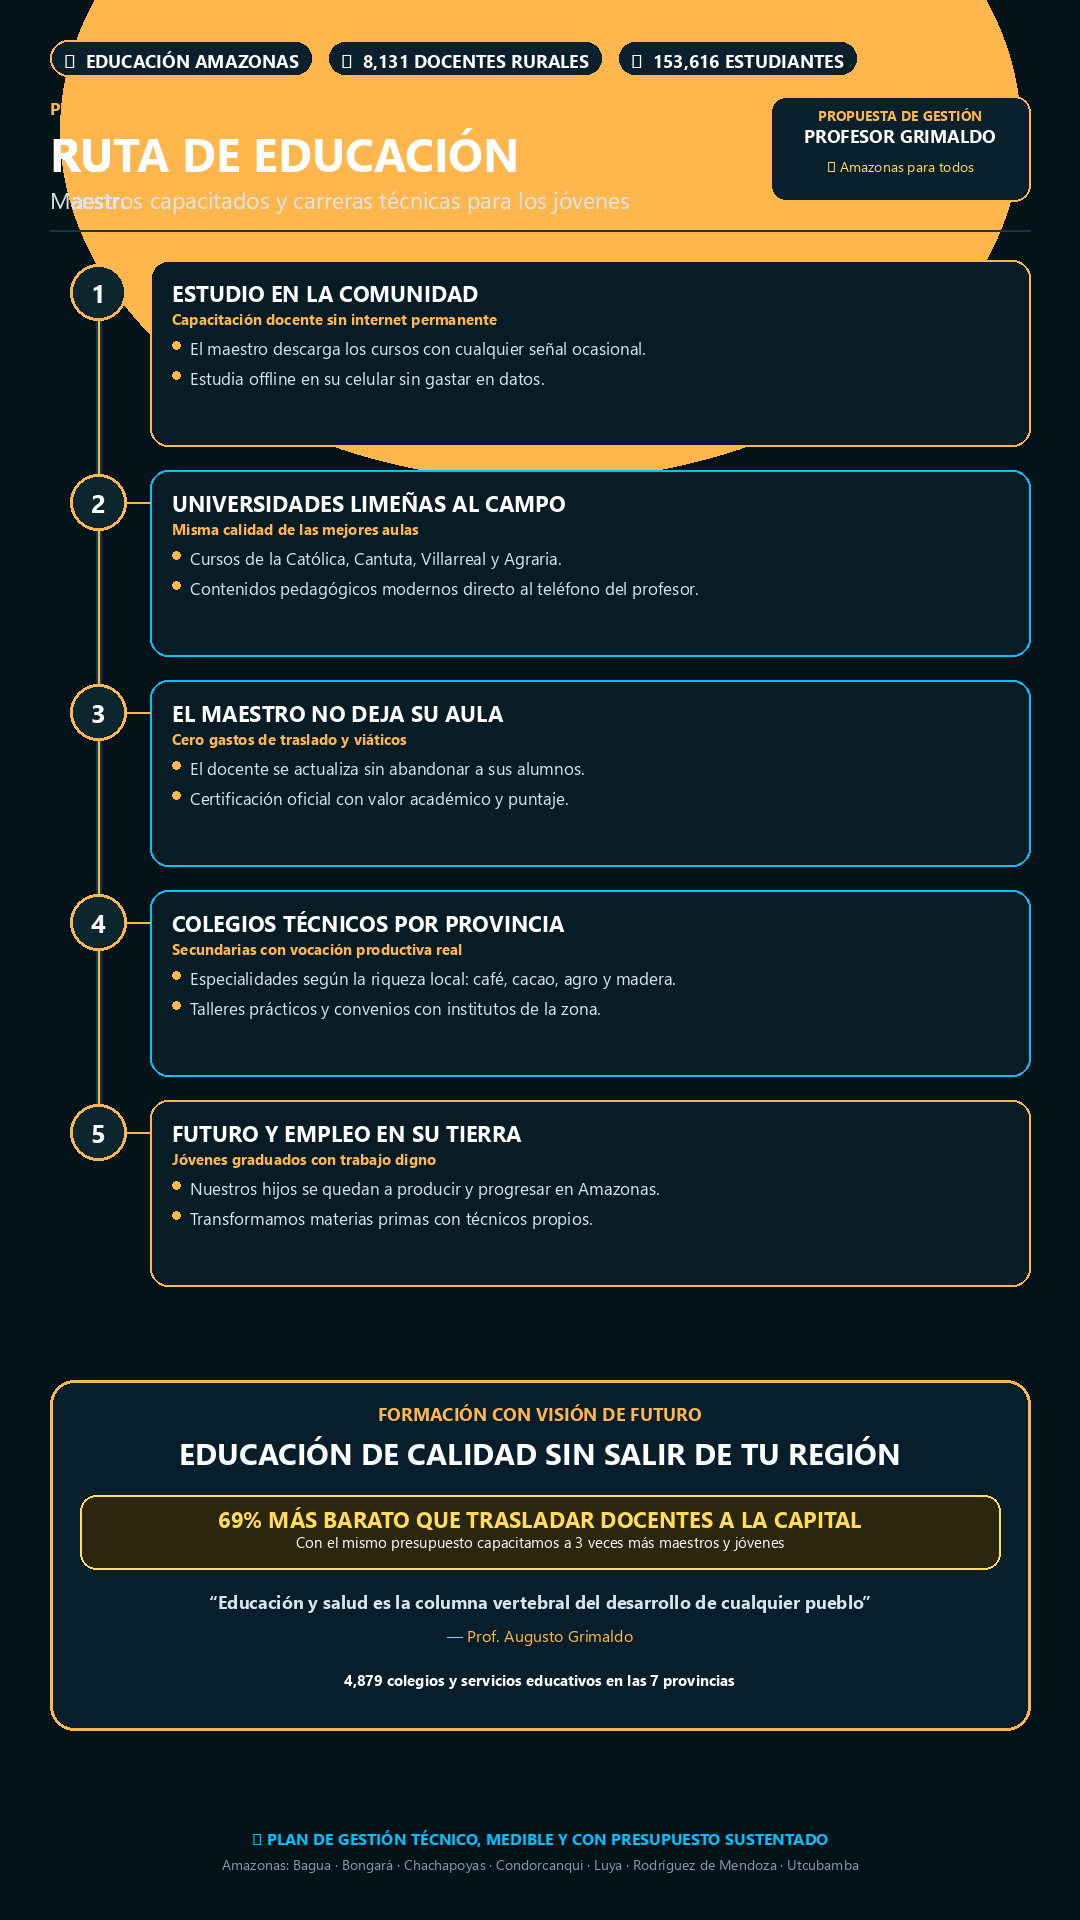
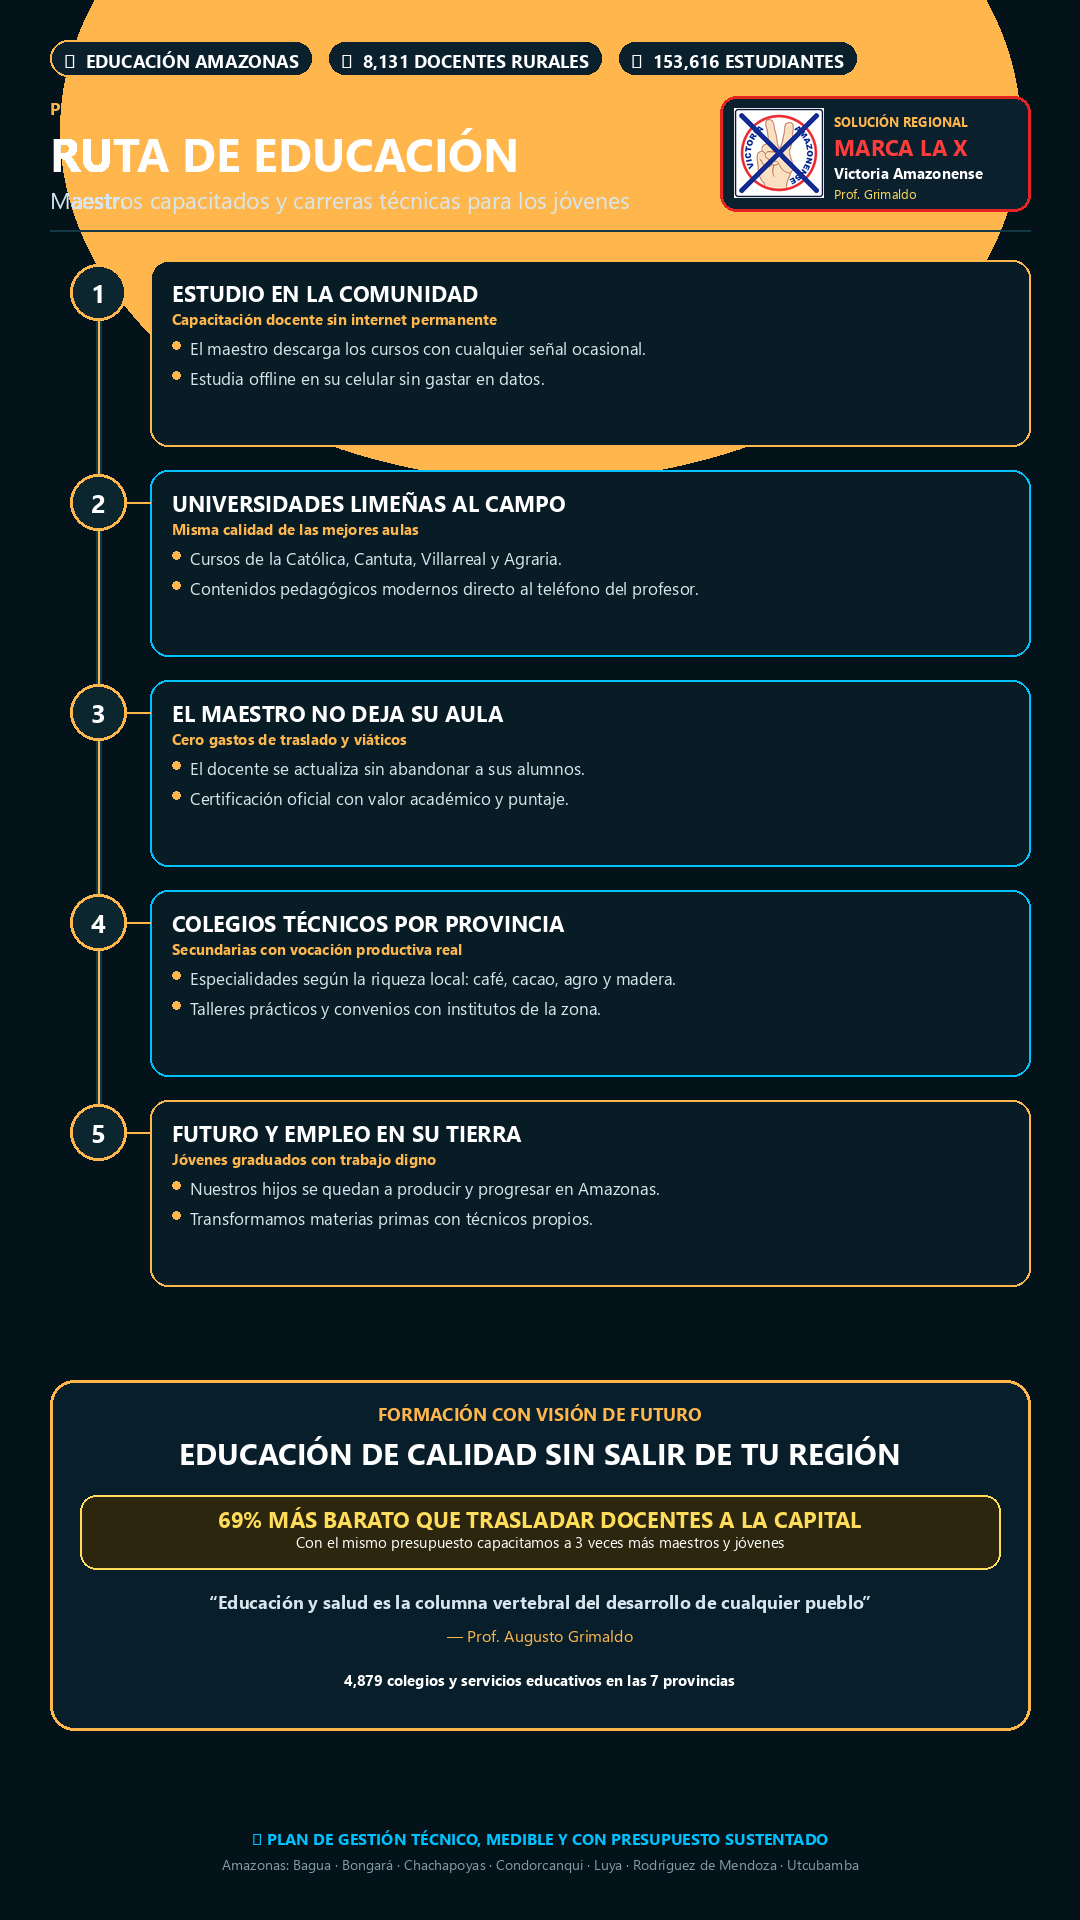
Simbolo oficial Victoria Amazonense marcado con X aplicado exclusivamente a las SOLUCIONES (no a los problemas)

Changed region(s): [[0.6417, 0.0312, 0.9472, 0.125]]

diff --git a/diapositivas.html b/diapositivas.html
@@ -202,6 +202,67 @@
   .tema-alerta .dot.activo { width: 22px; border-radius: 999px; background: var(--alerta); }
   .sector-btn.activo-alerta { background: var(--alerta); color: #04121a; }
   .nav-btn.primary-alerta { background: var(--alerta); color: #04121a; }
+
+  /* =========================================================================
+     SELLOS ELECTORALES (SOLO EN SOLUCIONES, NUNCA EN PROBLEMAS)
+     ========================================================================= */
+  .top-badge-row {
+    display: flex; align-items: center; justify-content: space-between; gap: 10px; width: 100%;
+  }
+  .voto-badge-pill {
+    display: inline-flex; align-items: center; gap: 6px;
+    background: #ffffff; color: #1b2680;
+    padding: 4px 12px 4px 6px; border-radius: 999px;
+    font-size: .74rem; font-weight: 900; text-transform: uppercase; letter-spacing: .5px;
+    border: 2px solid #e52424;
+    box-shadow: 0 4px 12px rgba(0, 0, 0, .35);
+  }
+  .voto-badge-pill img {
+    width: 22px; height: 22px; border-radius: 4px; object-fit: contain;
+  }
+  .voto-badge-pill b {
+    color: #e52424; font-size: .84rem;
+  }
+
+  .pie-voto-solucion {
+    display: flex; align-items: center; gap: 12px;
+    background: rgba(255, 255, 255, .06);
+    border: 1.5px solid rgba(229, 36, 36, .5);
+    border-radius: 14px;
+    padding: 8px 12px;
+    margin-top: 6px;
+  }
+  .pie-voto-solucion .mini-cedula-img {
+    width: 38px; height: 38px; border-radius: 6px; object-fit: contain; flex-shrink: 0;
+    border: 1px solid #ffffff;
+    box-shadow: 0 2px 8px rgba(0,0,0,.4);
+  }
+  .pie-voto-solucion span {
+    font-size: .82rem; color: #d6e2ff; line-height: 1.3;
+  }
+  .pie-voto-solucion b {
+    color: #ffffff;
+  }
+
+  .banner-vota-solucion {
+    display: flex; align-items: center; gap: 14px;
+    background: linear-gradient(135deg, rgba(27, 38, 128, .6), rgba(229, 36, 36, .2));
+    border: 2px solid #e52424;
+    border-radius: 18px;
+    padding: 12px 14px;
+    margin-top: 10px;
+  }
+  .banner-vota-solucion img {
+    width: 52px; height: 52px; border-radius: 8px; object-fit: contain; flex-shrink: 0;
+    border: 1.5px solid #fff;
+    box-shadow: 0 4px 12px rgba(0, 0, 0, .4);
+  }
+  .banner-vota-solucion .txt-vota b {
+    display: block; font-size: .92rem; color: #ffd54f; letter-spacing: .5px;
+  }
+  .banner-vota-solucion .txt-vota span {
+    display: block; font-size: .8rem; color: #ffffff; margin-top: 3px; line-height: 1.3;
+  }
 </style>
 </head>
 <body class="tema-alerta">
@@ -511,6 +572,7 @@
     sectorActual = sectorKey;
     slideActual = 0;
     const info = DATOS[sectorKey];
+    const esSolucion = (sectorKey === 'educacion' || sectorKey === 'salud');
 
     document.body.className = info.temaClase;
     btnSig.className = 'nav-btn ' + info.btnClase;
@@ -530,9 +592,16 @@
       const card = document.createElement('div');
       card.className = 'slide-card' + (s.tipo === 'cierre' || s.tipo === 'portada' ? ' destacada' : '');
 
+      const badgeHtml = esSolucion 
+        ? `<div class="top-badge-row">
+             <div class="paso-badge">${s.tipo === 'paso' ? 'PASO ' + s.paso : s.badge}</div>
+             <div class="voto-badge-pill"><img src="material/cedula-voto-x.png" alt="Marca la X"><span>MARCA LA <b>X</b></span></div>
+           </div>`
+        : `<div class="paso-badge">${s.tipo === 'paso' ? 'PASO ' + s.paso : s.badge}</div>`;
+
       if (s.tipo === 'portada') {
         card.innerHTML = `
-          <div class="paso-badge">${s.badge}</div>
+          ${badgeHtml}
           <div class="slide-header">
             <span class="slide-icono">${s.icono}</span>
             <div class="slide-titulos">
@@ -548,10 +617,19 @@
               </div>
             `).join('')}
           </div>
+          ${esSolucion ? `
+            <div class="banner-vota-solucion">
+              <img src="material/cedula-voto-x.png" alt="Marca con una X">
+              <div class="txt-vota">
+                <b>LA SOLUCIÓN EN LAS URNAS</b>
+                <span>Para hacer realidad esta solución, en la cédula marca con una <b>X</b> el símbolo de Victoria Amazonense</span>
+              </div>
+            </div>
+          ` : ''}
         `;
       } else if (s.tipo === 'paso') {
         card.innerHTML = `
-          <div class="paso-badge">PASO ${s.paso}</div>
+          ${badgeHtml}
           <div class="slide-header">
             <span class="slide-icono">${s.icono}</span>
             <div class="slide-titulos">
@@ -567,10 +645,16 @@
               </div>
             `).join('')}
           </div>
+          ${esSolucion ? `
+            <div class="pie-voto-solucion">
+              <img src="material/cedula-voto-x.png" alt="Marca con una X" class="mini-cedula-img">
+              <span>Solución de <b>Victoria Amazonense</b> · Marca con una <b>X</b></span>
+            </div>
+          ` : ''}
         `;
       } else if (s.tipo === 'cierre') {
         card.innerHTML = `
-          <div class="paso-badge">${s.badge}</div>
+          ${badgeHtml}
           <div class="hero-slide">
             <span class="slide-icono" style="font-size:3.4rem">${s.icono}</span>
             <h1>${s.titulo}</h1>
@@ -579,6 +663,15 @@
               <span class="metrica-txt">${s.metricaTxt}</span>
             </div>
             <p class="cita-profe">${s.cita}</p>
+            ${esSolucion ? `
+              <div class="banner-vota-solucion" style="width:100%; text-align:left;">
+                <img src="material/cedula-voto-x.png" alt="Marca con una X" style="width:58px;height:58px;">
+                <div class="txt-vota">
+                  <b>VOTA POR LA SOLUCIÓN REGIONAL</b>
+                  <span>En las elecciones, marca con una <b>X</b> el símbolo de <b>Victoria Amazonense</b></span>
+                </div>
+              </div>
+            ` : ''}
           </div>
         `;
       }

diff --git a/index.html b/index.html
@@ -158,6 +158,43 @@
     padding: 9px 16px; font-weight: 800; font-size: .85rem;
   }
 
+  /* =========================================================================
+     BANNER Y SELLOS ELECTORALES (SOLO EN SOLUCIONES, NUNCA EN PROBLEMAS)
+     ========================================================================= */
+  .banner-soluciones-vota {
+    display: flex; align-items: center; gap: 14px;
+    background: linear-gradient(135deg, #1b2680 0%, #0b1138 100%);
+    border: 2px solid var(--rojo-vic);
+    border-radius: 18px;
+    padding: 12px 16px;
+    margin-bottom: 12px;
+    color: #fff;
+    box-shadow: 0 6px 20px rgba(27, 38, 128, .2);
+  }
+  .banner-soluciones-vota img {
+    width: 50px; height: 50px; border-radius: 10px; object-fit: contain; flex-shrink: 0;
+    border: 2px solid #fff;
+    box-shadow: 0 4px 10px rgba(0,0,0,.3);
+  }
+  .banner-soluciones-vota .vota-txt b {
+    display: block; font-size: .88rem; color: #ffd54f; letter-spacing: .5px; text-transform: uppercase;
+  }
+  .banner-soluciones-vota .vota-txt span {
+    display: block; font-size: .78rem; color: #d6e2ff; margin-top: 2px; line-height: 1.35;
+  }
+
+  .badge-vota-pill {
+    display: inline-flex; align-items: center; gap: 5px;
+    background: #fff; color: var(--azul-vic);
+    border: 1.5px solid var(--rojo-vic);
+    padding: 2px 8px; border-radius: 999px;
+    font-size: .68rem; font-weight: 900; text-transform: uppercase;
+    margin-top: 6px; width: fit-content;
+  }
+  .badge-vota-pill img {
+    width: 14px; height: 14px; border-radius: 2px; object-fit: contain;
+  }
+
   /* ====================================================================
      VISOR MODAL INSTANTÁNEO INTEGRADO (Cero pestañas nuevas, 0ms de espera)
      ==================================================================== */
@@ -293,6 +330,21 @@
       h2.textContent = (cat.icono || '📌') + ' ' + cat.nombre;
       sec.appendChild(h2);
 
+      const esSolucionCat = cat.nombre.toLowerCase().includes('soluciones') || cat.nombre.toLowerCase().includes('propuestas');
+
+      if (esSolucionCat) {
+        const ban = document.createElement('div');
+        ban.className = 'banner-soluciones-vota';
+        ban.innerHTML = `
+          <img src="material/cedula-voto-x.png" alt="Marca con una X">
+          <div class="vota-txt">
+            <b>PLAN DE GOBIERNO · VICTORIA AMAZONENSE</b>
+            <span>Para hacer realidad estas soluciones, en las elecciones marca con una <b>X</b></span>
+          </div>
+        `;
+        sec.appendChild(ban);
+      }
+
       for (const it of cat.items || []) {
         const a = document.createElement('a');
         a.className = 'tarjeta';
@@ -324,6 +376,13 @@
         small.textContent = it.nota || '';
         txt.append(b);
         if (it.nota) txt.append(small);
+
+        if (esSolucionCat) {
+          const pillVoto = document.createElement('div');
+          pillVoto.className = 'badge-vota-pill';
+          pillVoto.innerHTML = `<img src="material/cedula-voto-x.png" alt="X"> Marca con una X`;
+          txt.append(pillVoto);
+        }
 
         const tipo = document.createElement('span');
         tipo.className = 'tipo';

diff --git a/sw.js b/sw.js
@@ -2,7 +2,7 @@
 // Estrategia: network-first para links.json, cache-first para shell e imágenes de material.
 // Las láminas de salud y educación quedan cacheadas en el teléfono para apertura instantánea en 0ms.
 
-const VERSION = 'grimaldo-hub-v4';
+const VERSION = 'grimaldo-hub-v5';
 const SHELL = [
   './',
   './index.html',
@@ -14,6 +14,10 @@ const SHELL = [
   './icons/apple-touch-icon.png',
   './material/grimaldo-avatar.png',
   './material/grimaldo-oficial.png',
+  './material/simbolo-victoria.png',
+  './material/cedula-voto-x.png',
+  './material/simbolo-marcado-x.png',
+  './material/badge-marca-x.png',
   './material/ruta-salud.png',
   './material/ruta-educacion.png',
   './material/propuesta-integral.png'

diff --git a/material/_generar_rutas_separadas.py b/material/_generar_rutas_separadas.py
@@ -83,14 +83,25 @@ def generar_ruta(nombre_archivo, config):
     # Subtítulo explicativo
     d.text((50, 184), config["subtitulo"], font=F(23), fill=GRIS_CLARO)
 
-    # Mini insignia lateral profesor Grimaldo
-    box_w = 260
+    # Mini insignia lateral profesor Grimaldo + Símbolo marcado con X
+    cedula_path = os.path.join(BASE, "cedula-voto-x.png")
+    box_w = 310
     box_x = W - 50 - box_w
     box_y = 96
-    d.rounded_rectangle([box_x, box_y, box_x + box_w, box_y + 105], radius=16, fill=(10, 32, 44), outline=accent, width=2)
-    d.text((box_x + box_w//2, box_y + 12), "PROPUESTA DE GESTIÓN", font=F(14, bold=True), fill=accent, anchor="mt")
-    d.text((box_x + box_w//2, box_y + 34), "PROFESOR GRIMALDO", font=F(18, bold=True), fill=BLANCO, anchor="mt")
-    d.text((box_x + box_w//2, box_y + 66), "⛰ Amazonas para todos", font=F(14), fill=AMARILLO, anchor="mt")
+    d.rounded_rectangle([box_x, box_y, box_x + box_w, box_y + 115], radius=16, fill=(10, 32, 44), outline=(229, 36, 36), width=3)
+    
+    if os.path.exists(cedula_path):
+        ced_im = Image.open(cedula_path).resize((90, 90), Image.Resampling.LANCZOS)
+        im.paste(ced_im, (box_x + 14, box_y + 12), ced_im)
+        txt_x = box_x + 114
+        d.text((txt_x, box_y + 16), "SOLUCIÓN REGIONAL", font=F(13, bold=True), fill=accent)
+        d.text((txt_x, box_y + 36), "MARCA LA X", font=F(22, bold=True), fill=(255, 60, 60))
+        d.text((txt_x, box_y + 66), "Victoria Amazonense", font=F(15, bold=True), fill=BLANCO)
+        d.text((txt_x, box_y + 88), "Prof. Grimaldo", font=F(13), fill=AMARILLO)
+    else:
+        d.text((box_x + box_w//2, box_y + 12), "PROPUESTA DE GESTIÓN", font=F(14, bold=True), fill=accent, anchor="mt")
+        d.text((box_x + box_w//2, box_y + 34), "PROFESOR GRIMALDO", font=F(18, bold=True), fill=BLANCO, anchor="mt")
+        d.text((box_x + box_w//2, box_y + 66), "⛰ Amazonas para todos", font=F(14), fill=AMARILLO, anchor="mt")
 
     # Línea horizontal separadora
     d.line([(50, 230), (W - 50, 230)], fill=(20, 55, 70), width=2)
